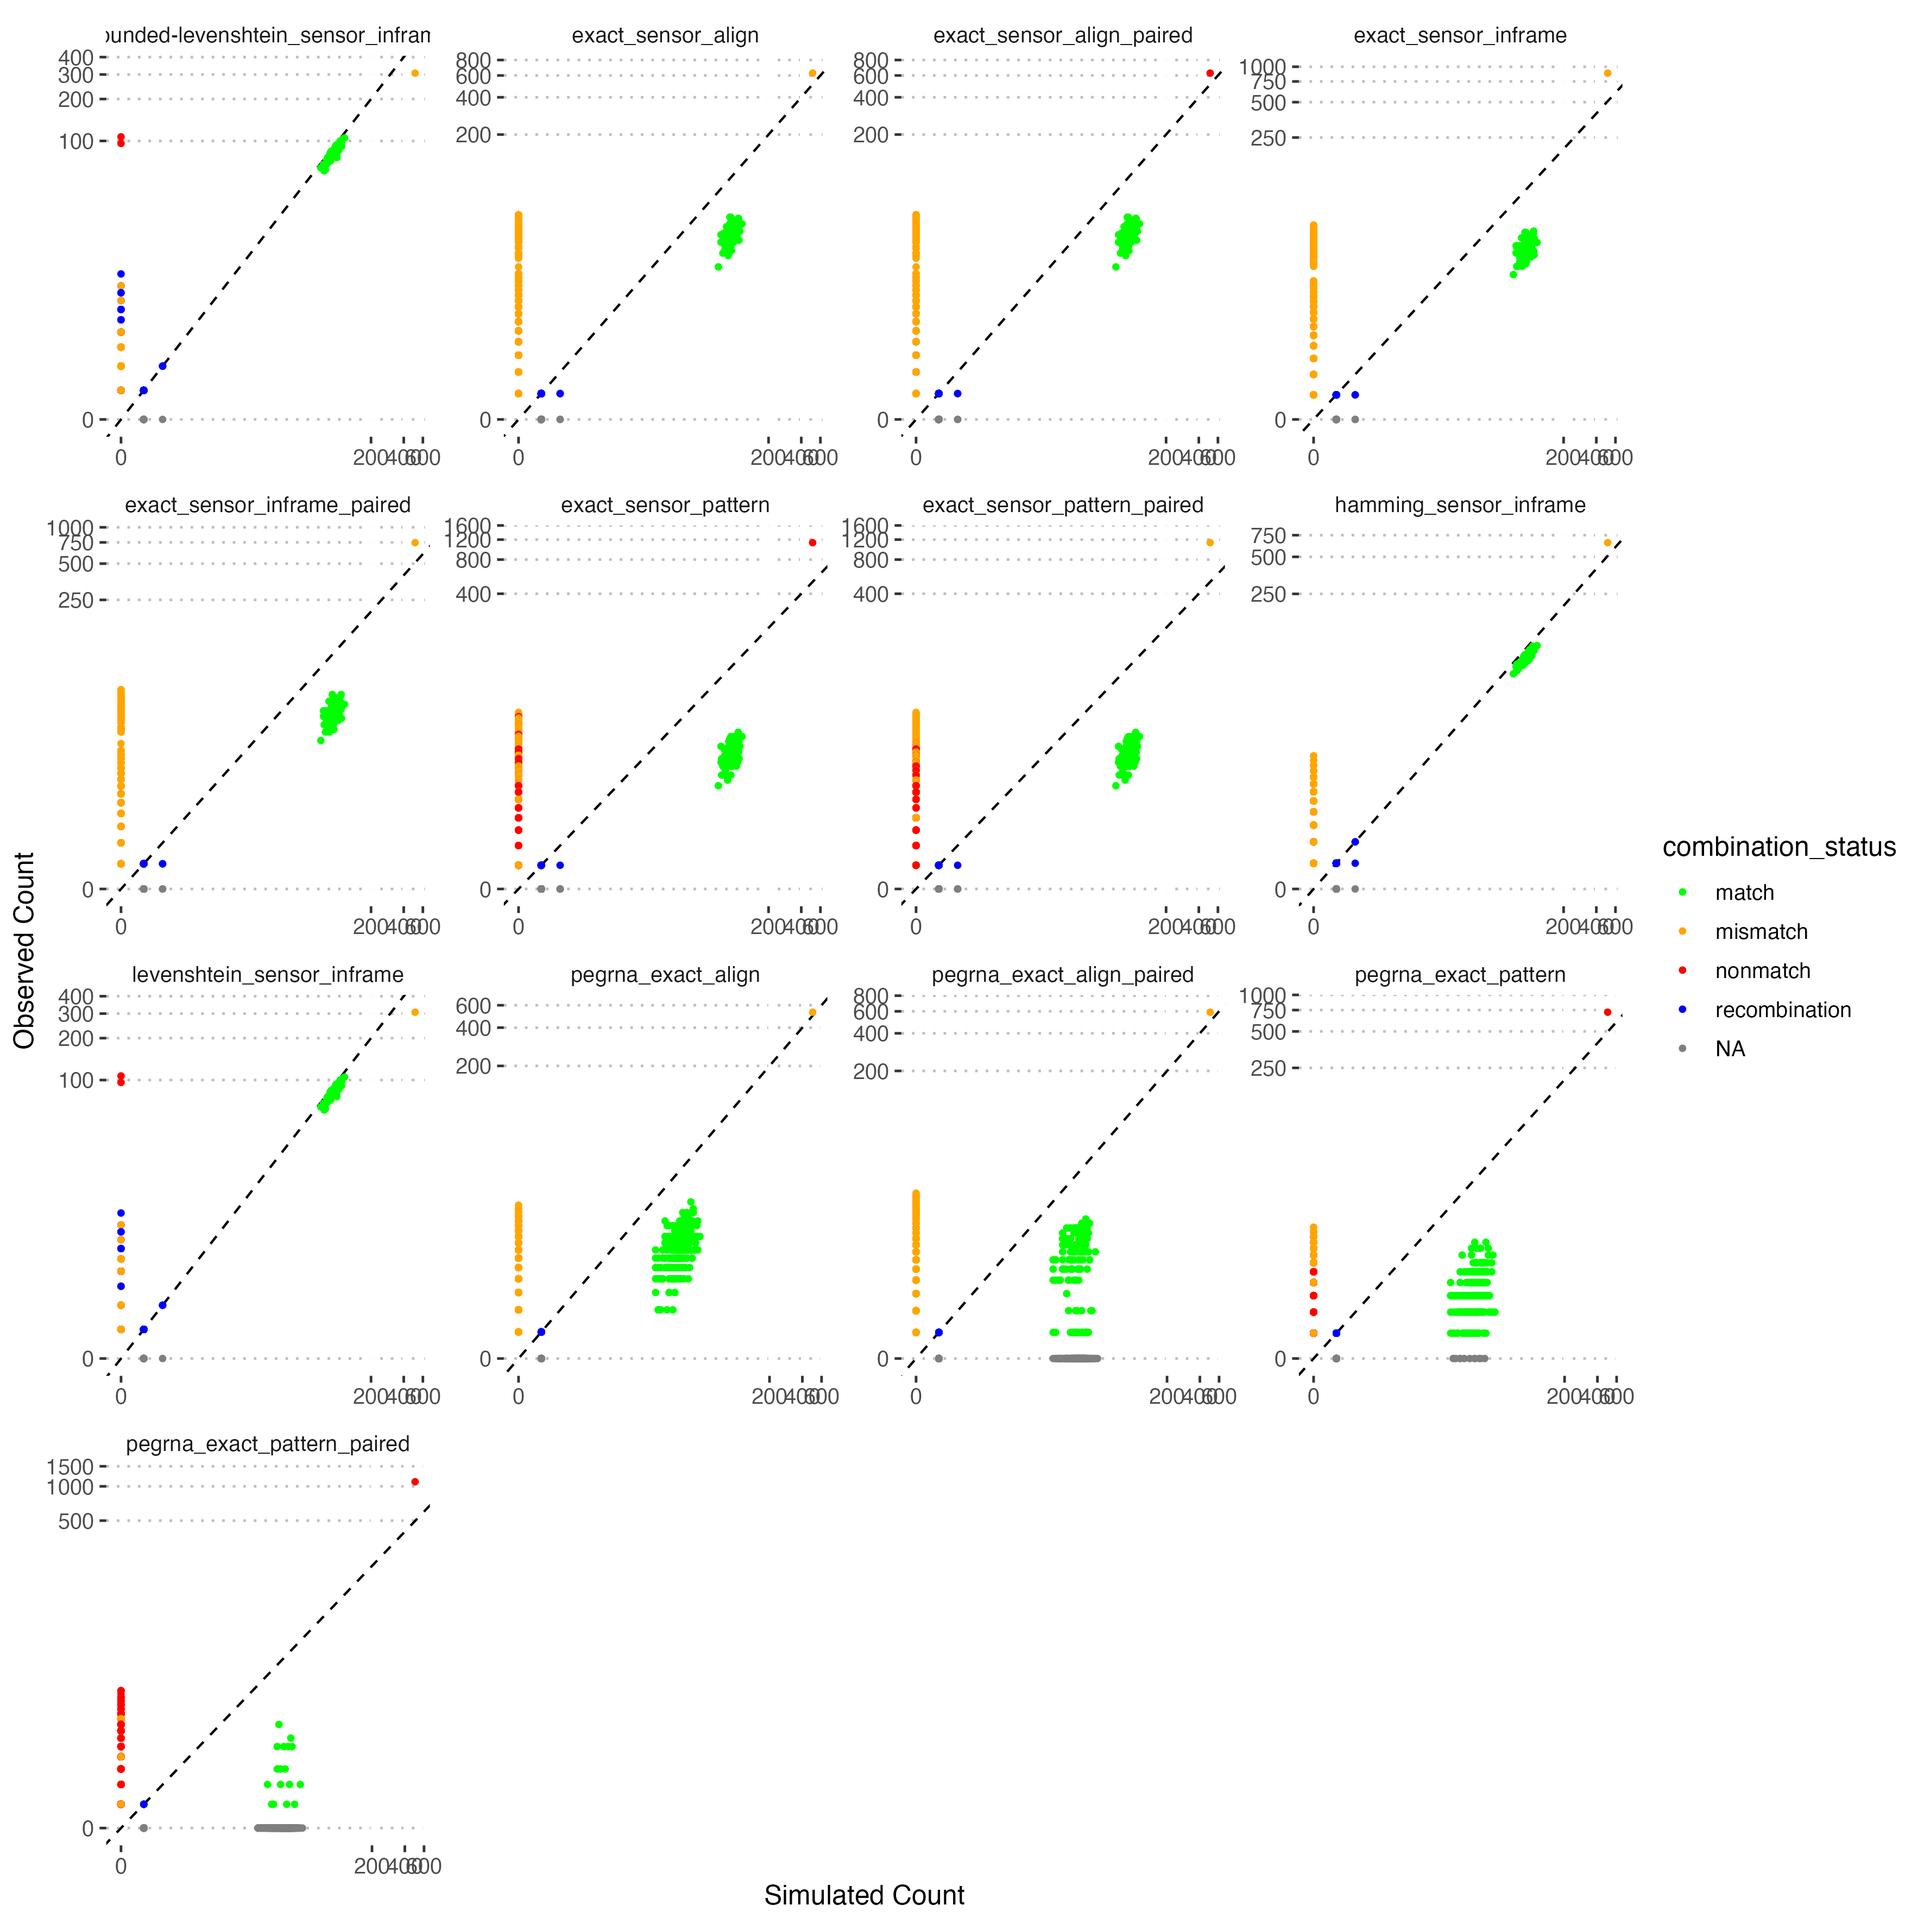
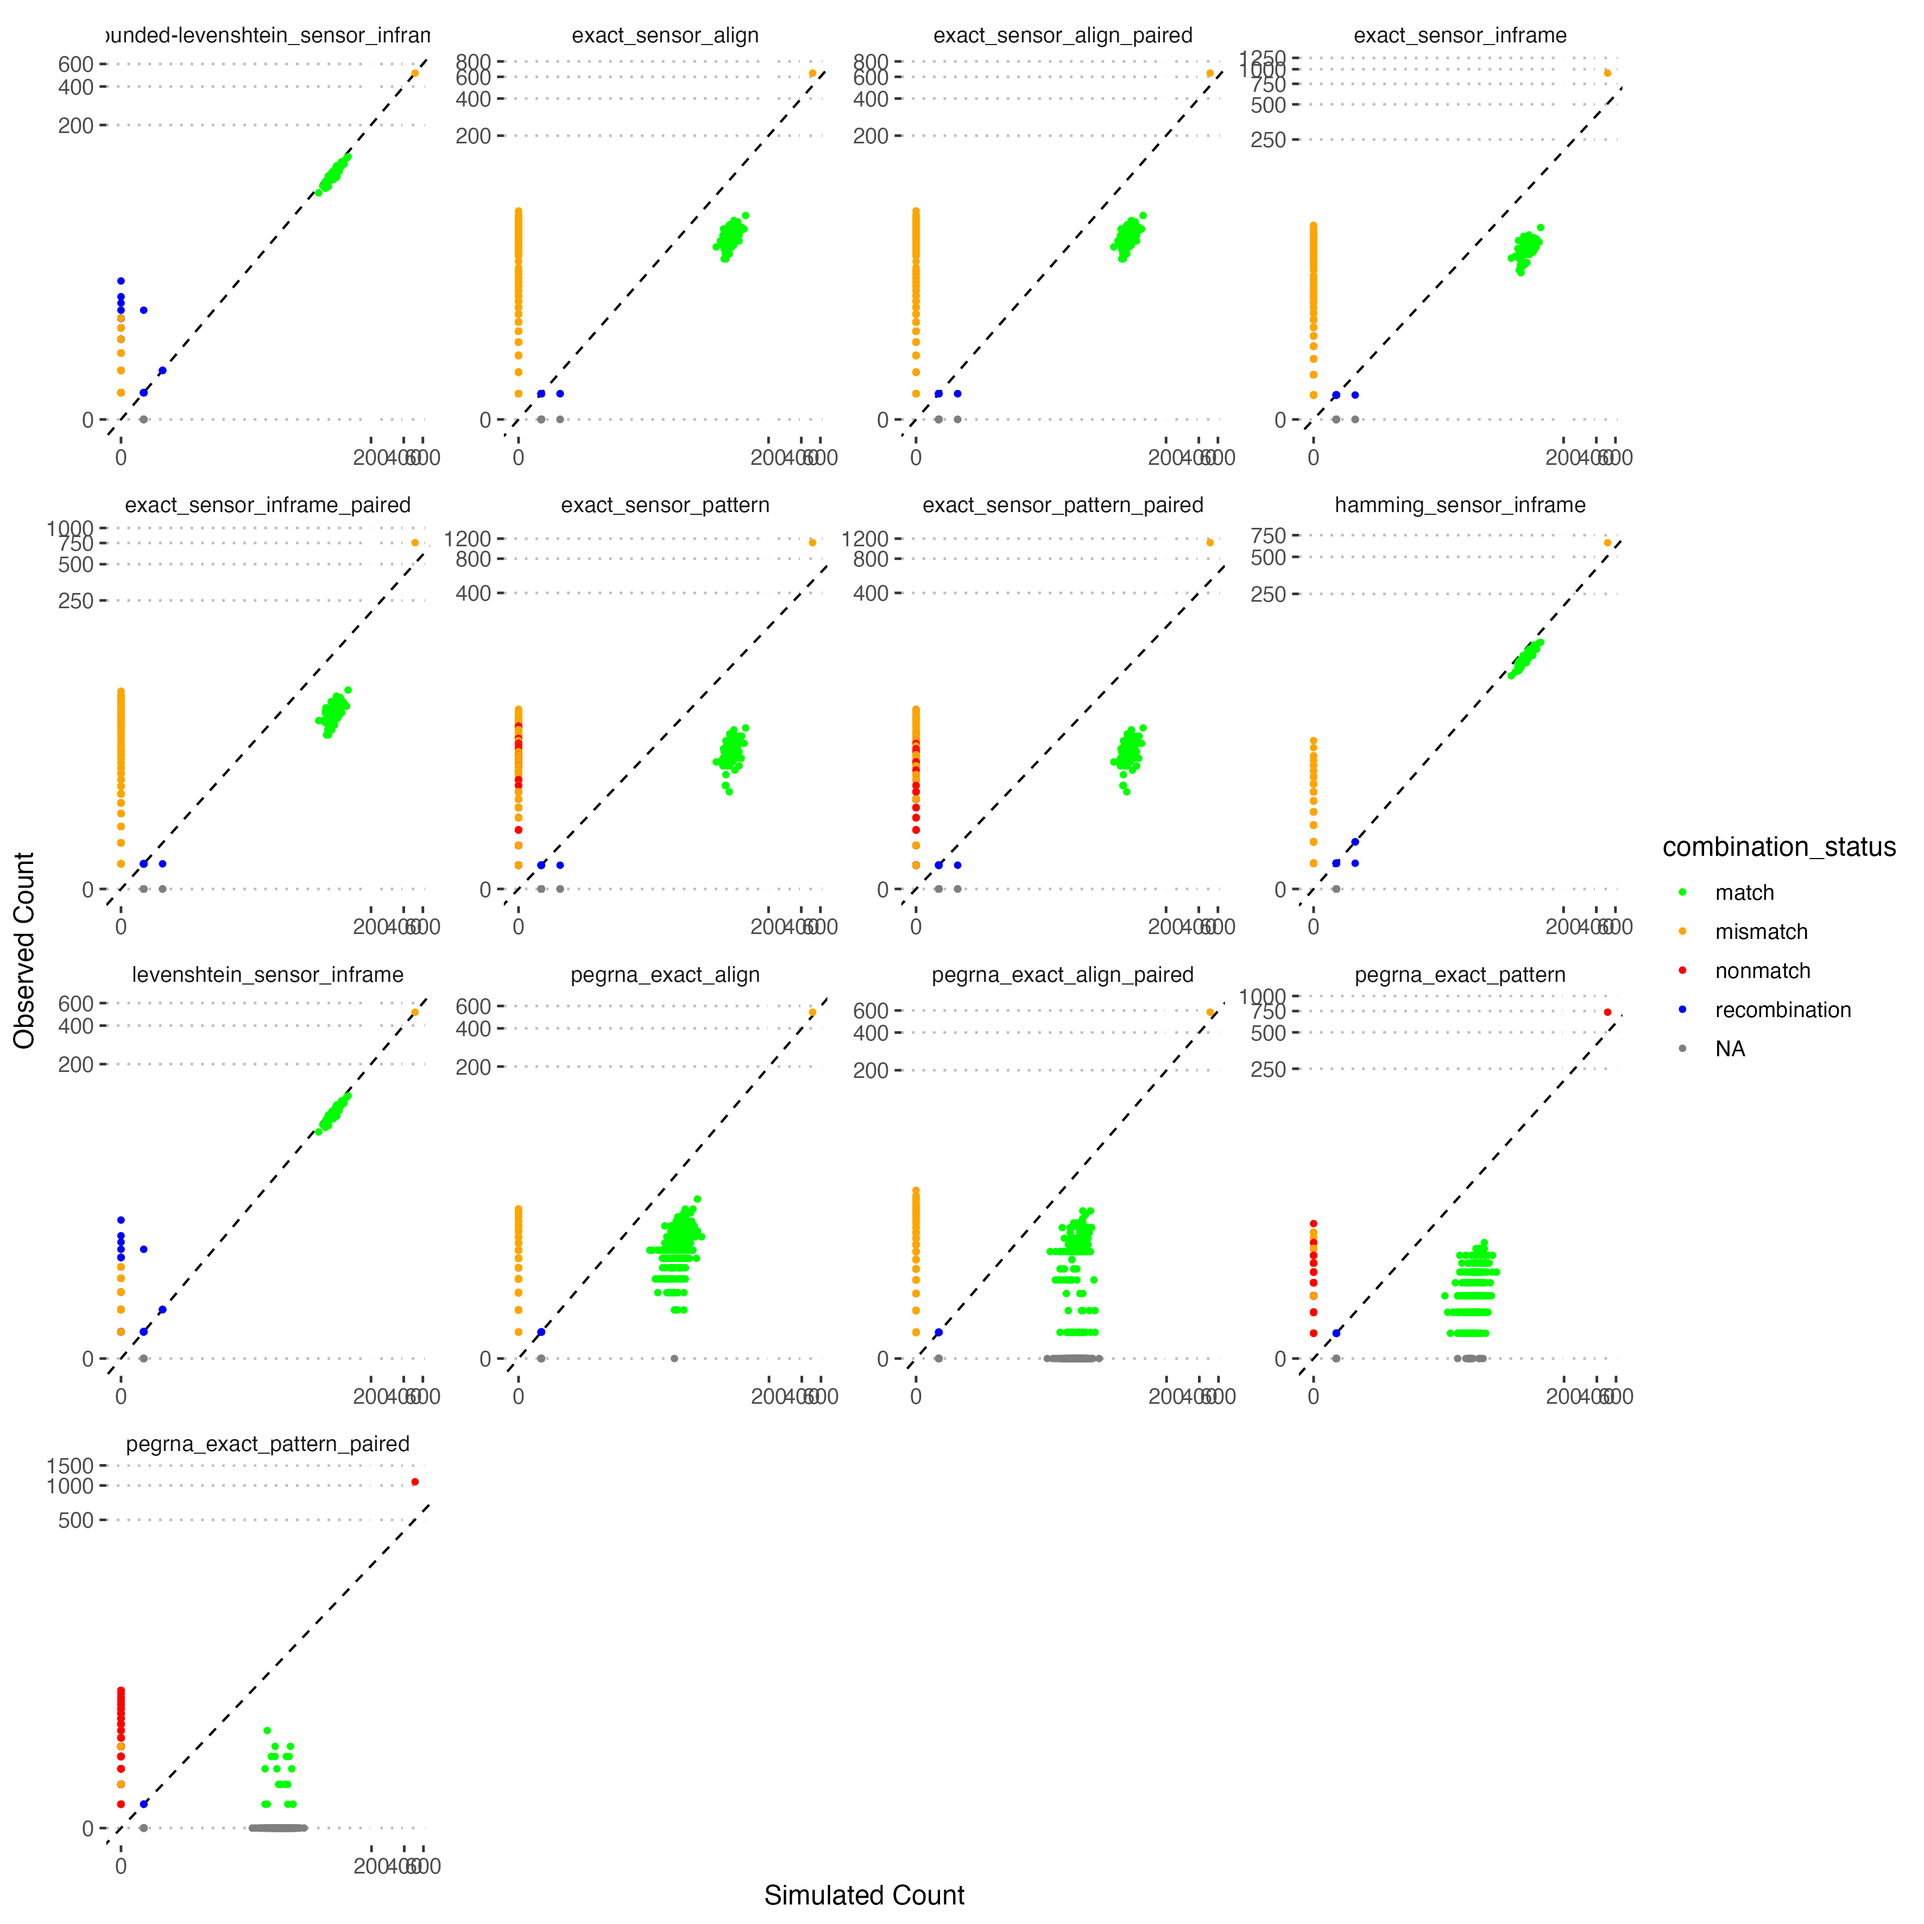
Corrected Hamming 3'/5' matching to not discard matches of incorrect lengths (as any partial match will be)

diff --git a/src/lib_spec.rs b/src/lib_spec.rs
@@ -951,12 +951,6 @@ impl Library {
         let query_len = seq.len();
 
         for reg in regions.iter() {
-            // Hamming distance only applicaple for matching length, ignore
-            // non-matching lengths
-            if seq.len() != reg.sequence.len() {
-                continue;
-            }
-
             let reg_end = cmp::min(query_len, reg.sequence.len());
 
             // Use appropriate hamming implemntation (other branch should be
@@ -996,12 +990,6 @@ impl Library {
         let query_len = seq.len();
 
         for reg in regions.iter() {
-            // Hamming distance only applicaple for matching length, ignore
-            // non-matching lengths
-            if seq.len() != reg.sequence.len() {
-                continue;
-            }
-
             let end = reg.sequence.len();
             let start = end.saturating_sub(query_len);
 

diff --git a/src/read_counts.rs b/src/read_counts.rs
@@ -342,7 +342,7 @@ fn merge_seqs(
         (_, RegionCompleteness::Complete) => Ok(Some((r_reg.0, r_reg.2))),
 
         // Both partial in same way - use highest quality
-        // Weird situation but some read trimming could lead her potentially
+        // Weird situation but some read trimming could lead here potentially
         (RegionCompleteness::Partial5Prime, RegionCompleteness::Partial5Prime) => {
             WARN_MERGE.call_once(|| {
                 log::warn!(

diff --git a/scripts/integration_test.py b/scripts/integration_test.py
@@ -43,7 +43,7 @@ def main():
     if not os.path.exists("tests/grna.fq"):
         print("    Basic gRNA library... ", end="")
         generate_test_data(lib_spec="config/grna.json", number=10000, library_size=100,
-                               output="tests/grna")
+                           output="tests/grna")
         print("done")
 
     if not os.path.exists("tests/grna.fa"):

diff --git a/README.md b/README.md
@@ -216,13 +216,8 @@ If you expect observed indels are likely real mutation rather than sequencing er
 
 ### Current limitations
 
-The current release is generally robust but tests show a few situations where observed counts differ from simulated expectations:
-
-* Pattern matching is not robust to mutations in flank sequences, leading to a level of undercounting and lots of non-matches that should be assignable.
-* Paired reads sometimes lead to missed library assignment when the read partially overlaps a region. The regions are still counted just not assigned to the library fully. This can generally be mitigated by pairing reads ahead of processing, which is more robust in any case.
-
-Both cases can be seen in the plots from the integration tests, for instance in the summary counts:
+The current release is generally robust but tests show pattern matching is not robust to mutations in flank sequences, leading to a level of undercounting and lots of non-matches that should be assignable. This can be seen in the plots from the integration tests, for instance in the summary counts:
 
 ![summary counts](plots/test_summary_scatter.png)
 
-We are working on improving these features in upcoming patches.
+We are working on improving this with fuzzy pattern matching in upcoming patches.
